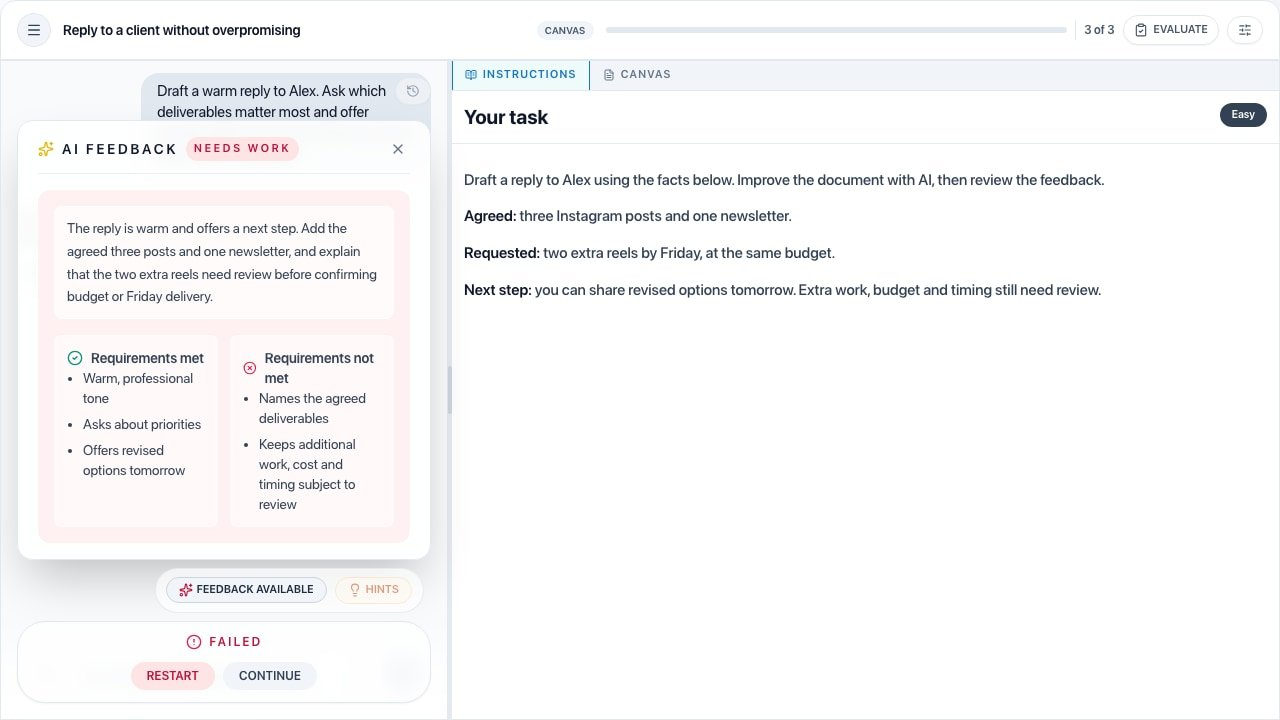
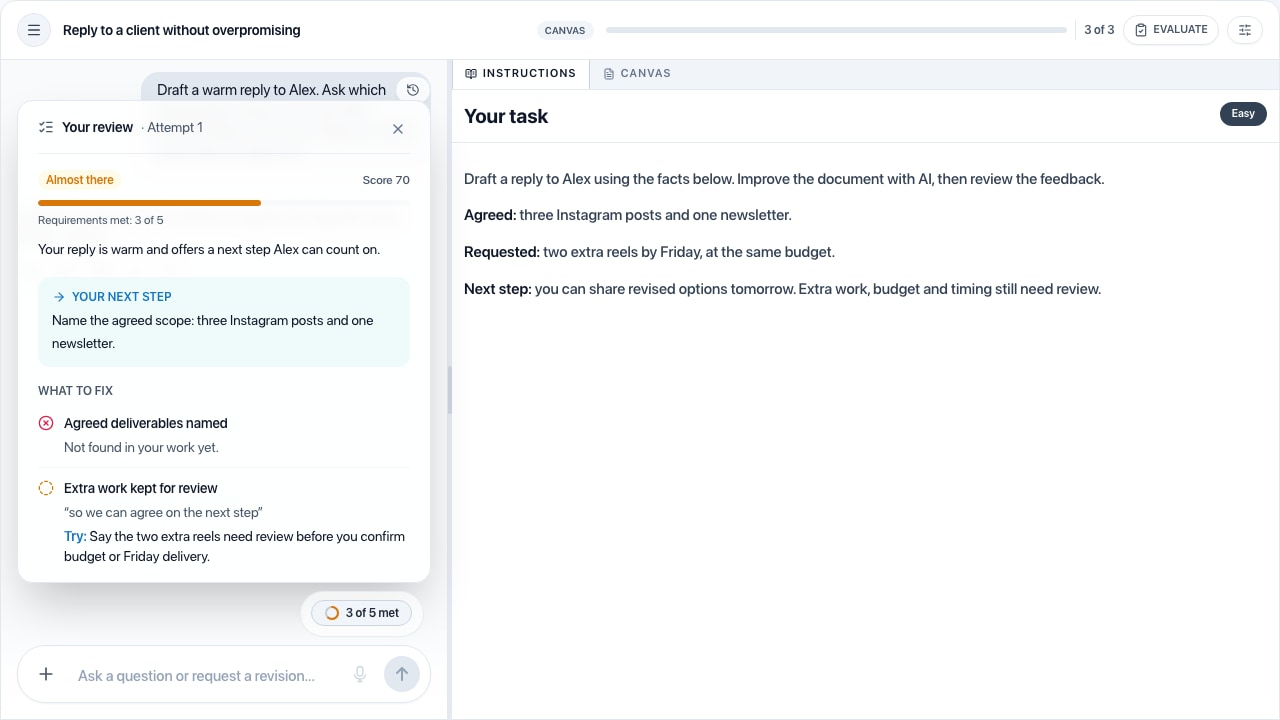
Update Discentik screenshots to the current product
Use the screenshots published on discentik.com (learner journey,
instructor and organisation previews) for the post, the featured
project and the project card. The organisations picture is now the
team analytics screen, with its caption and alt text to match.

diff --git a/src/components/Posts/Discentik.js b/src/components/Posts/Discentik.js
@@ -20,9 +20,9 @@ function Discentik() {
 
   const screenshots = [
     { src: '/images/discentik/quiz.jpg', alt: 'Discentik quiz checking the learner understands the task', caption: t('posts.discentik.captions.quiz') },
-    { src: '/images/discentik/ai-feedback.jpg', alt: 'Discentik AI feedback listing requirements met and not met', caption: t('posts.discentik.captions.feedback') },
+    { src: '/images/discentik/ai-feedback.jpg', alt: 'Discentik AI feedback with the next step and the requirements still missing', caption: t('posts.discentik.captions.feedback') },
     { src: '/images/discentik/instructor-builder.jpg', alt: 'Discentik instructor course workspace with modules and stages', caption: t('posts.discentik.captions.builder') },
-    { src: '/images/discentik/organisation-progress.jpg', alt: 'Discentik organisation group with a course assignment and member progress', caption: t('posts.discentik.captions.progress') }
+    { src: '/images/discentik/organisation-progress.jpg', alt: 'Discentik team analytics with activity over time, completion and overdue assignments', caption: t('posts.discentik.captions.progress') }
   ];
 
   const featureGroups = t.raw('posts.discentik.featureGroups');
